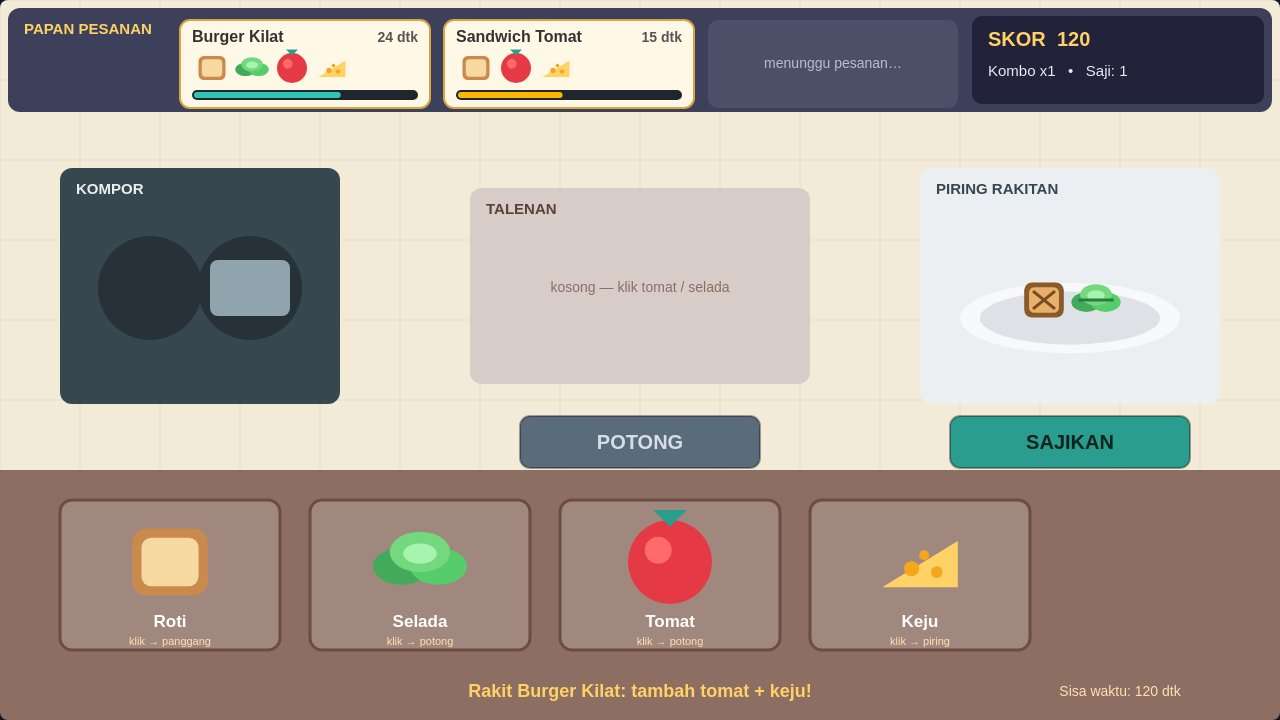
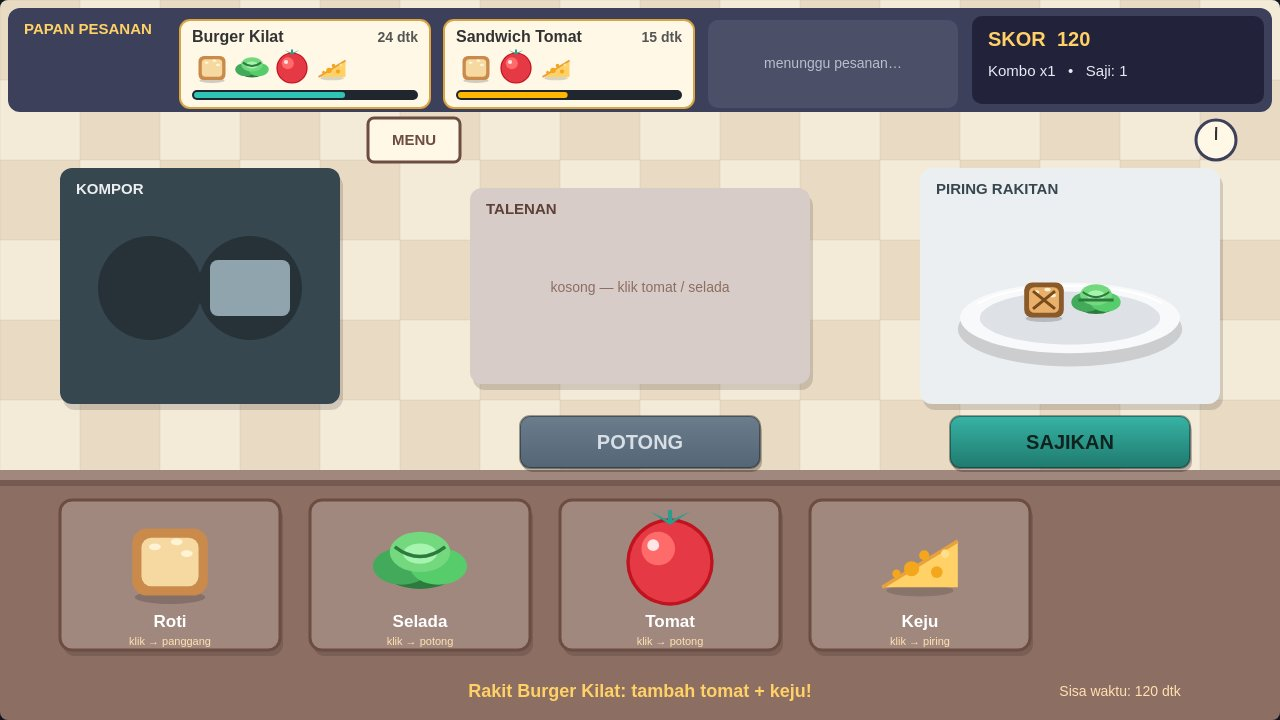
Polish visual Dapur Kilat: detail makanan, ubin, bayangan, uap, jam + menu, screenshot ulang

diff --git a/game/src/render.js b/game/src/render.js
@@ -39,24 +39,47 @@ function drawIngredient(ctx, kind, x, y, s, prep) {
     if (prep === 'potong') {
       circle(ctx, x - s * 0.28, y, s * 0.42, '#e63946');
       circle(ctx, x + s * 0.28, y, s * 0.42, '#d62828');
-      circle(ctx, x - s * 0.28, y, s * 0.16, '#ff8fa3');
-      circle(ctx, x + s * 0.28, y, s * 0.16, '#ff8fa3');
+      circle(ctx, x - s * 0.28, y, s * 0.30, '#ff7a85');
+      circle(ctx, x + s * 0.28, y, s * 0.30, '#ff7a85');
+      circle(ctx, x - s * 0.28, y, s * 0.16, '#ffd6da');
+      circle(ctx, x + s * 0.28, y, s * 0.16, '#ffd6da');
+      circle(ctx, x - s * 0.38, y - s * 0.08, s * 0.05, '#fff3e0');
+      circle(ctx, x + s * 0.18, y + s * 0.08, s * 0.05, '#fff3e0');
     } else {
-      circle(ctx, x, y, s * 0.5, '#e63946');
-      circle(ctx, x - s * 0.14, y - s * 0.14, s * 0.16, '#ff6b6b');
+      circle(ctx, x, y, s * 0.52, '#c1121f');
+      circle(ctx, x, y, s * 0.48, '#e63946');
+      circle(ctx, x - s * 0.14, y - s * 0.16, s * 0.2, '#ff6b6b');
+      circle(ctx, x - s * 0.2, y - s * 0.2, s * 0.07, '#ffe5e5');
+      ctx.strokeStyle = '#2a9d8f';
+      ctx.lineWidth = Math.max(2, s * 0.05);
+      ctx.beginPath();
+      ctx.moveTo(x, y - s * 0.46);
+      ctx.lineTo(x, y - s * 0.62);
+      ctx.stroke();
       ctx.fillStyle = '#2a9d8f';
       ctx.beginPath();
-      ctx.moveTo(x, y - s * 0.42);
-      ctx.lineTo(x - s * 0.2, y - s * 0.62);
-      ctx.lineTo(x + s * 0.2, y - s * 0.62);
+      ctx.moveTo(x, y - s * 0.44);
+      ctx.lineTo(x - s * 0.24, y - s * 0.6);
+      ctx.lineTo(x - s * 0.02, y - s * 0.5);
+      ctx.closePath();
+      ctx.moveTo(x, y - s * 0.44);
+      ctx.lineTo(x + s * 0.24, y - s * 0.6);
+      ctx.lineTo(x + s * 0.02, y - s * 0.5);
       ctx.closePath();
       ctx.fill();
     }
   } else if (kind === 'selada') {
+    ellipse(ctx, x, y + s * 0.12, s * 0.42, s * 0.2, '#2d7a3e');
     ellipse(ctx, x - s * 0.22, y + s * 0.05, s * 0.34, s * 0.22, '#43aa5b');
     ellipse(ctx, x + s * 0.22, y + s * 0.05, s * 0.34, s * 0.22, '#57cc6a');
     ellipse(ctx, x, y - s * 0.12, s * 0.36, s * 0.24, '#74d97e');
     ellipse(ctx, x, y - s * 0.1, s * 0.2, s * 0.12, '#a7f3b0');
+    ctx.strokeStyle = '#2d7a3e';
+    ctx.lineWidth = Math.max(2, s * 0.04);
+    ctx.beginPath();
+    ctx.moveTo(x - s * 0.3, y - s * 0.18);
+    ctx.quadraticCurveTo(x, y + s * 0.05, x + s * 0.3, y - s * 0.18);
+    ctx.stroke();
     if (prep === 'potong') {
       ctx.strokeStyle = '#2d7a3e';
       ctx.lineWidth = 3;
@@ -68,12 +91,16 @@ function drawIngredient(ctx, kind, x, y, s, prep) {
   } else if (kind === 'roti') {
     const crust = prep === 'panggang' ? '#8a5a2b' : '#c98a4b';
     const inner = prep === 'panggang' ? '#e8b06a' : '#f6d9a0';
+    ellipse(ctx, x, y + s * 0.42, s * 0.42, s * 0.08, 'rgba(0,0,0,.18)');
     rr(ctx, x - s * 0.45, y - s * 0.4, s * 0.9, s * 0.8, s * 0.18);
     ctx.fillStyle = crust;
     ctx.fill();
     rr(ctx, x - s * 0.34, y - s * 0.29, s * 0.68, s * 0.58, s * 0.12);
     ctx.fillStyle = inner;
     ctx.fill();
+    ellipse(ctx, x - s * 0.18, y - s * 0.18, s * 0.07, s * 0.04, '#fff3d6');
+    ellipse(ctx, x + s * 0.08, y - s * 0.24, s * 0.07, s * 0.04, '#fff3d6');
+    ellipse(ctx, x + s * 0.2, y - s * 0.1, s * 0.07, s * 0.04, '#fff3d6');
     if (prep === 'panggang') {
       ctx.strokeStyle = '#7a4a1f';
       ctx.lineWidth = 3;
@@ -85,6 +112,7 @@ function drawIngredient(ctx, kind, x, y, s, prep) {
       ctx.stroke();
     }
   } else if (kind === 'keju') {
+    ellipse(ctx, x, y + s * 0.34, s * 0.4, s * 0.07, 'rgba(0,0,0,.15)');
     ctx.fillStyle = '#ffd166';
     ctx.beginPath();
     ctx.moveTo(x - s * 0.45, y + s * 0.3);
@@ -92,16 +120,30 @@ function drawIngredient(ctx, kind, x, y, s, prep) {
     ctx.lineTo(x + s * 0.45, y - s * 0.25);
     ctx.closePath();
     ctx.fill();
+    ctx.strokeStyle = '#e9a13b';
+    ctx.lineWidth = Math.max(2, s * 0.04);
+    ctx.beginPath();
+    ctx.moveTo(x - s * 0.45, y + s * 0.3);
+    ctx.lineTo(x + s * 0.45, y - s * 0.25);
+    ctx.stroke();
     circle(ctx, x - s * 0.1, y + s * 0.08, s * 0.09, '#f4a71d');
     circle(ctx, x + s * 0.2, y + s * 0.12, s * 0.07, '#f4a71d');
     circle(ctx, x + s * 0.05, y - s * 0.08, s * 0.06, '#f4a71d');
+    circle(ctx, x - s * 0.28, y + s * 0.14, s * 0.05, '#f4a71d');
+    circle(ctx, x + s * 0.3, y - s * 0.1, s * 0.05, '#ffdf8e');
   }
 }
 
 // Piring putih + isi rakitan di atasnya.
 function drawPlate(ctx, items, x, y, r) {
+  ellipse(ctx, x, y + r * 0.1, r * 1.02, r * 0.34, 'rgba(0,0,0,.14)');
   ellipse(ctx, x, y, r, r * 0.32, '#f8f9fa');
   ellipse(ctx, x, y, r * 0.82, r * 0.24, '#dee2e6');
+  ctx.strokeStyle = '#ffffff';
+  ctx.lineWidth = 2;
+  ctx.beginPath();
+  ctx.ellipse(x, y, r * 0.94, r * 0.29, 0, Math.PI * 1.15, Math.PI * 1.85);
+  ctx.stroke();
   if (items.length === 0) {
     txt(ctx, 'piring kosong', x, y - 6, 15, '#8a97a3', 'center');
     return;
@@ -128,12 +170,25 @@ function drawTimerBar(ctx, x, y, w, h, frac) {
 }
 
 function drawButton(ctx, x, y, w, h, label, enabled, hot) {
+  rr(ctx, x + 2, y + 4, w, h, 10);
+  ctx.fillStyle = 'rgba(0,0,0,.25)';
+  ctx.fill();
+  const g = ctx.createLinearGradient(x, y, x, y + h);
+  if (!enabled) { g.addColorStop(0, '#6b7d8c'); g.addColorStop(1, '#546575'); }
+  else if (hot) { g.addColorStop(0, '#ffe082'); g.addColorStop(1, '#ffb703'); }
+  else { g.addColorStop(0, '#37b3a5'); g.addColorStop(1, '#1f7a6e'); }
   rr(ctx, x, y, w, h, 10);
-  ctx.fillStyle = enabled ? (hot ? '#ffd166' : '#2a9d8f') : '#5a6b7a';
+  ctx.fillStyle = g;
   ctx.fill();
   ctx.lineWidth = 2;
-  ctx.strokeStyle = 'rgba(0,0,0,.35)';
+  ctx.strokeStyle = hot ? '#fff3d6' : 'rgba(0,0,0,.35)';
   ctx.stroke();
+  if (hot) {
+    ctx.strokeStyle = 'rgba(255,209,102,.8)';
+    ctx.lineWidth = 4;
+    rr(ctx, x - 3, y - 3, w + 6, h + 6, 12);
+    ctx.stroke();
+  }
   txt(ctx, label, x + w / 2, y + h / 2 + 1, 20, enabled ? '#10231f' : '#d7dee5', 'center', true);
 }
 

diff --git a/game/src/kitchen.js b/game/src/kitchen.js
@@ -23,6 +23,12 @@ function pointIn(r, x, y) {
   return x >= r.x && x <= r.x + r.w && y >= r.y && y <= r.y + r.h;
 }
 
+function panelShadow(ctx, x, y, w, h) {
+  rr(ctx, x + 3, y + 6, w, h, 12);
+  ctx.fillStyle = 'rgba(0,0,0,.14)';
+  ctx.fill();
+}
+
 function hitBin(x, y) {
   for (const b of LAYOUT.bins) {
     if (pointIn(b, x, y)) return b.kind;
@@ -37,11 +43,21 @@ function hitButton(x, y) {
 }
 
 function drawKitchen(ctx, G) {
-  // dinding + lantai dapur
+  // dinding ubin + meja dapur
   ctx.fillStyle = '#f4ead8';
   ctx.fillRect(0, 0, 1280, 470);
+  ctx.fillStyle = 'rgba(190,160,120,.22)';
+  for (let ty = 0; ty < 470; ty += 80) {
+    for (let tx = 0; tx < 1280; tx += 80) {
+      if (((tx + ty) / 80) % 2 === 0) ctx.fillRect(tx, ty, 80, 80);
+    }
+  }
   ctx.fillStyle = '#8d6e63';
   ctx.fillRect(0, 470, 1280, 250);
+  ctx.fillStyle = '#a1887f';
+  ctx.fillRect(0, 470, 1280, 10);
+  ctx.fillStyle = 'rgba(0,0,0,.18)';
+  ctx.fillRect(0, 480, 1280, 6);
   ctx.strokeStyle = 'rgba(0,0,0,.06)';
   ctx.lineWidth = 1;
   for (let x = 0; x < 1280; x += 80) {
@@ -74,7 +90,27 @@ function drawKitchen(ctx, G) {
   ctx.fill();
   txt(ctx, 'SKOR  ' + G.score, LAYOUT.scoreBox.x + 16, LAYOUT.scoreBox.y + 24, 20, '#ffd166', 'left', true);
   txt(ctx, 'Kombo x' + G.combo + '   •   Saji: ' + G.served, LAYOUT.scoreBox.x + 16, LAYOUT.scoreBox.y + 56, 15, '#e8eaf6', 'left');
+  // papan menu kecil + jam dinding (strip kosong y 112..168)
+  rr(ctx, 368, 118, 92, 44, 6);
+  ctx.fillStyle = '#fff8e7';
+  ctx.fill();
+  ctx.lineWidth = 3;
+  ctx.strokeStyle = '#6d4c41';
+  ctx.stroke();
+  txt(ctx, 'MENU', 414, 141, 15, '#6d4c41', 'center', true);
+  circle(ctx, 1216, 140, 20, '#fff8e7');
+  ctx.strokeStyle = '#3d405b';
+  ctx.lineWidth = 3;
+  ctx.beginPath(); ctx.arc(1216, 140, 20, 0, Math.PI * 2); ctx.stroke();
+  const ha = -Math.PI / 2 + (G.elapsed % 60) / 60 * Math.PI * 2;
+  ctx.strokeStyle = '#333333';
+  ctx.lineWidth = 2;
+  ctx.beginPath(); ctx.moveTo(1216, 140);
+  ctx.lineTo(1216 + Math.cos(ha) * 13, 140 + Math.sin(ha) * 13); ctx.stroke();
+  ctx.beginPath(); ctx.moveTo(1216, 140);
+  ctx.lineTo(1216, 140 - 9); ctx.stroke();
   // kompor
+  panelShadow(ctx, LAYOUT.stove.x, LAYOUT.stove.y, LAYOUT.stove.w, LAYOUT.stove.h);
   rr(ctx, LAYOUT.stove.x, LAYOUT.stove.y, LAYOUT.stove.w, LAYOUT.stove.h, 12);
   ctx.fillStyle = '#37474f';
   ctx.fill();
@@ -92,10 +128,14 @@ function drawKitchen(ctx, G) {
     ctx.lineTo(LAYOUT.stove.x + 114, LAYOUT.stove.y + 122);
     ctx.closePath();
     ctx.fill();
+    const st = (G.elapsed * 30) % 46;
+    circle(ctx, LAYOUT.stove.x + 76, LAYOUT.stove.y - 6 - st, 9, 'rgba(255,255,255,.45)');
+    circle(ctx, LAYOUT.stove.x + 104, LAYOUT.stove.y - 18 - ((st + 18) % 46), 7, 'rgba(255,255,255,.35)');
     drawIngredient(ctx, 'roti', LAYOUT.stove.x + 90, LAYOUT.stove.y + 120, 64, 'panggang');
     drawTimerBar(ctx, LAYOUT.stove.x + 30, LAYOUT.stove.y + 190, 220, 12, G.toasting.prog);
   }
   // talenan
+  panelShadow(ctx, LAYOUT.cutBoard.x, LAYOUT.cutBoard.y, LAYOUT.cutBoard.w, LAYOUT.cutBoard.h);
   rr(ctx, LAYOUT.cutBoard.x, LAYOUT.cutBoard.y, LAYOUT.cutBoard.w, LAYOUT.cutBoard.h, 12);
   ctx.fillStyle = '#d7ccc8';
   ctx.fill();
@@ -112,6 +152,7 @@ function drawKitchen(ctx, G) {
     txt(ctx, 'kosong — klik tomat / selada', LAYOUT.cutBoard.x + 170, LAYOUT.cutBoard.y + 100, 14, '#8d6e63', 'center');
   }
   // area piring rakitan
+  panelShadow(ctx, LAYOUT.plateArea.x, LAYOUT.plateArea.y, LAYOUT.plateArea.w, LAYOUT.plateArea.h);
   rr(ctx, LAYOUT.plateArea.x, LAYOUT.plateArea.y, LAYOUT.plateArea.w, LAYOUT.plateArea.h, 12);
   ctx.fillStyle = '#eceff1';
   ctx.fill();
@@ -119,6 +160,7 @@ function drawKitchen(ctx, G) {
   drawPlate(ctx, G.plate, LAYOUT.plateArea.x + 150, LAYOUT.plateArea.y + 150, 110);
   // 4 kotak bahan di meja bawah
   for (const b of LAYOUT.bins) {
+    panelShadow(ctx, b.x, b.y, b.w, b.h);
     rr(ctx, b.x, b.y, b.w, b.h, 12);
     ctx.fillStyle = '#a1887f';
     ctx.fill();

diff --git a/game/src/orders.js b/game/src/orders.js
@@ -180,6 +180,16 @@ function demoPreset(G, kind) {
     G.toasting = { kind: 'roti', prog: 0.45 };
     G.plate = [{ kind: 'keju', prep: 'mentah' }];
     setMsg(G, 'Tomat dipotong, roti dipanggang…');
+  } else if (kind === 'rakit2') {
+    G.state = 'play';
+    G.orders = [
+      { id: 907, recipe: RECIPES[2], t: 30, max: 30, done: false, failed: false },
+      { id: 908, recipe: RECIPES[3], t: 18, max: 35, done: false, failed: false },
+    ];
+    G.plate = [{ kind: 'selada', prep: 'potong' }];
+    G.toasting = { kind: 'roti', prog: 0.6 };
+    G.score = 200; G.combo = 1; G.served = 1;
+    setMsg(G, 'Rakit Salad Segar: tambah tomat!');
   } else if (kind === 'saji') {
     G.state = 'play';
     G.orders = [
